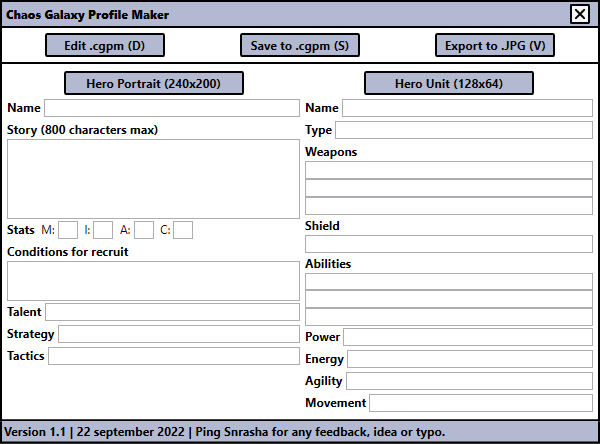
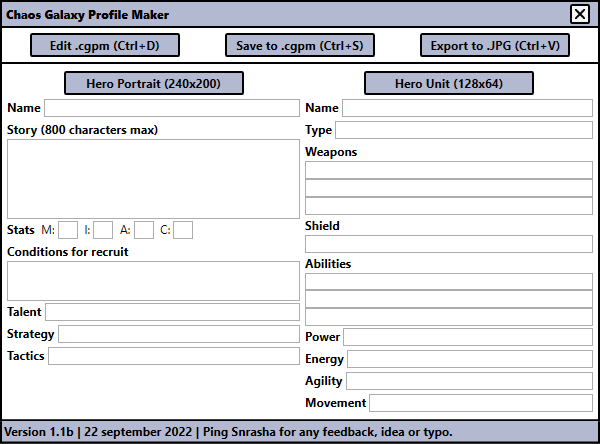
fix key shortcut

diff --git a/ChaosGalaxyProfileMaker/MainWindow.xaml b/ChaosGalaxyProfileMaker/MainWindow.xaml
@@ -51,25 +51,25 @@
                     <ColumnDefinition Width="*" />
                 </Grid.ColumnDefinitions>
                 <Button x:Name="edit_btn"
-                            Content="Edit .cgpm (D)"
+                            Content="Edit .cgpm (Ctrl+D)"
                             Click="OnClickEdit"
                             ClickMode="Release"
                             FontWeight="Bold"
-                            Width="120"
+                            Width="150"
                             HorizontalAlignment="Center" />
                 <Button x:Name="save_btn" Grid.Column="1"
-                            Content="Save to .cgpm (S)"
+                            Content="Save to .cgpm (Ctrl+S)"
                             Click="OnClickSave"
                             ClickMode="Release"
                             FontWeight="Bold"
-                            Width="120"
+                            Width="150"
                             HorizontalAlignment="Center" />
                 <Button x:Name="export_btn" Grid.Column="2"
-                            Content="Export to .JPG (V)"
+                            Content="Export to .JPG (Ctrl+V)"
                             Click="OnClickExport"
                             ClickMode="Release"
                             FontWeight="Bold"
-                            Width="120"
+                            Width="150"
                             HorizontalAlignment="Center" />
             </Grid>
 
@@ -233,7 +233,7 @@
             <TextBlock Margin="2"
                        FontWeight="Bold"
                        TextWrapping="Wrap"
-                       Text="Version 1.1 | 22 september 2022 | Ping Snrasha for any feedback, idea or typo." />
+                       Text="Version 1.1b | 22 september 2022 | Ping Snrasha for any feedback, idea or typo." />
 
         </Border>
     </StackPanel>

diff --git a/ChaosGalaxyProfileMaker/MainWindow.xaml.cs b/ChaosGalaxyProfileMaker/MainWindow.xaml.cs
@@ -363,15 +363,15 @@ namespace ChaosGalaxyProfileMaker
 
         private void Window_KeyUp(object sender, KeyEventArgs e)
         {
-            if (Keyboard.Modifiers == ModifierKeys.None && e.Key == Key.V)
+            if (Keyboard.Modifiers == ModifierKeys.Control && e.Key == Key.V)
             {
                 OnClickExport(null, null);
             }
-            else if (Keyboard.Modifiers == ModifierKeys.None && e.Key == Key.D)
+            else if (Keyboard.Modifiers == ModifierKeys.Control && e.Key == Key.D)
             {
-                OnClickEdit(null, null);
+                OnClickEdit(null, null); 
             }
-            else if (Keyboard.Modifiers == ModifierKeys.None && e.Key == Key.S)
+            else if (Keyboard.Modifiers == ModifierKeys.Control && e.Key == Key.S)
             {
                 OnClickSave(null, null);
             }

diff --git a/README.md b/README.md
@@ -1,9 +1,9 @@
 # Chaos Maker Profile Maker
 Create a formatted page preview of your hero with the unit.
 
-Press D for edit a save of your page preview data.
-Press S for save your page preview data.
-Press V for export it to jpg.
+Press Ctrl+D for edit a save of your page preview data.
+Press Ctrl+S for save your page preview data.
+Press Ctrl+V for export it to jpg.
 
 Fill all field and add the two images.
 
